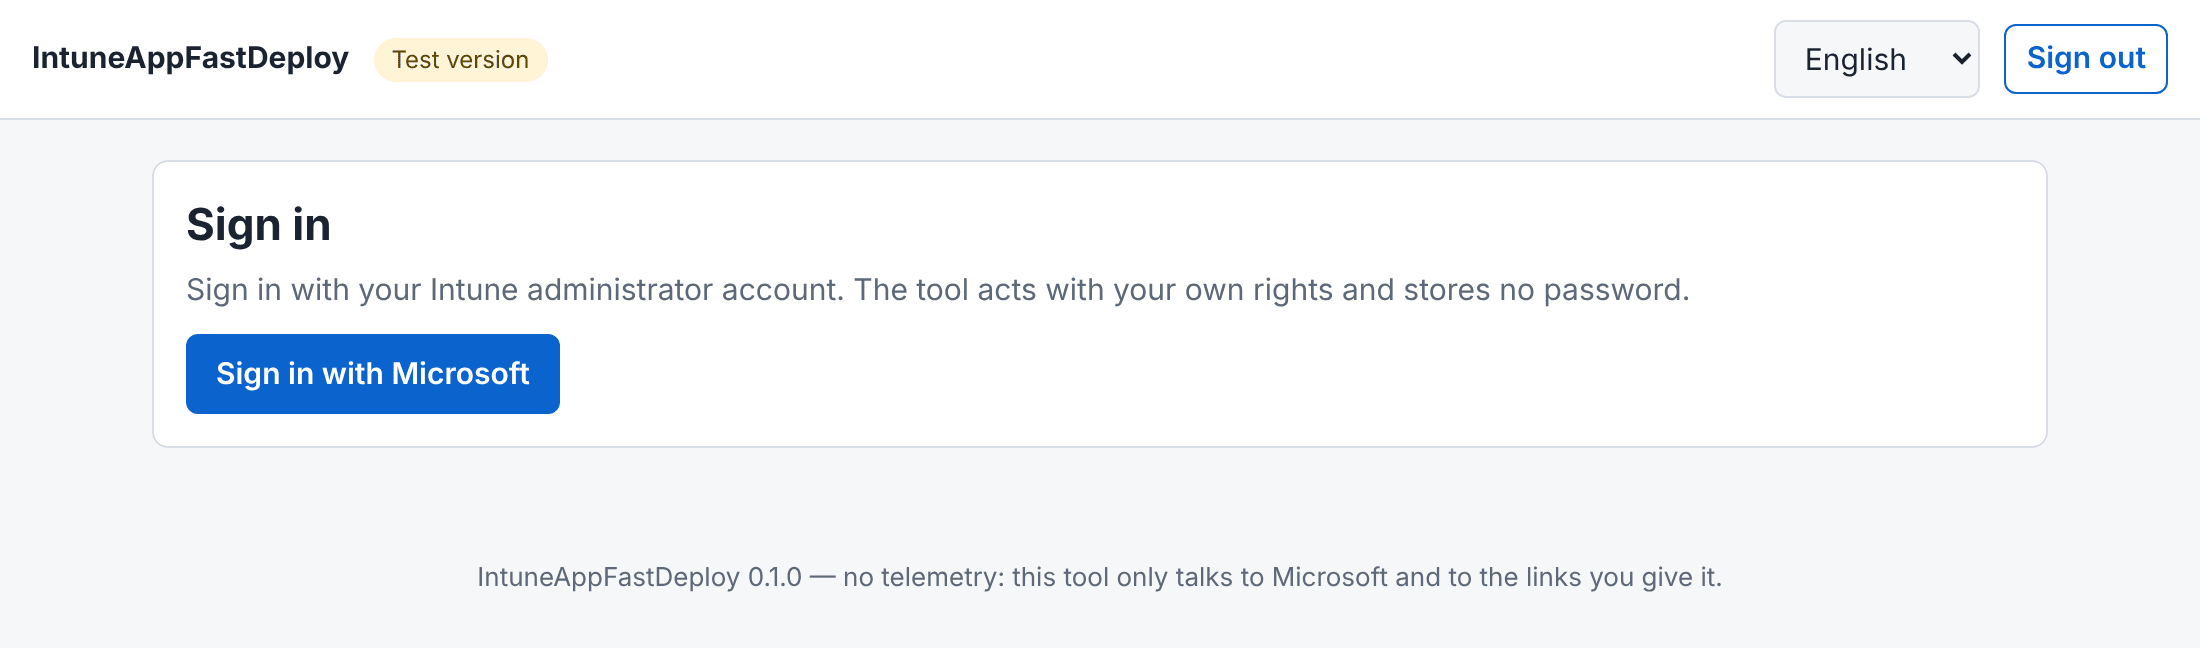
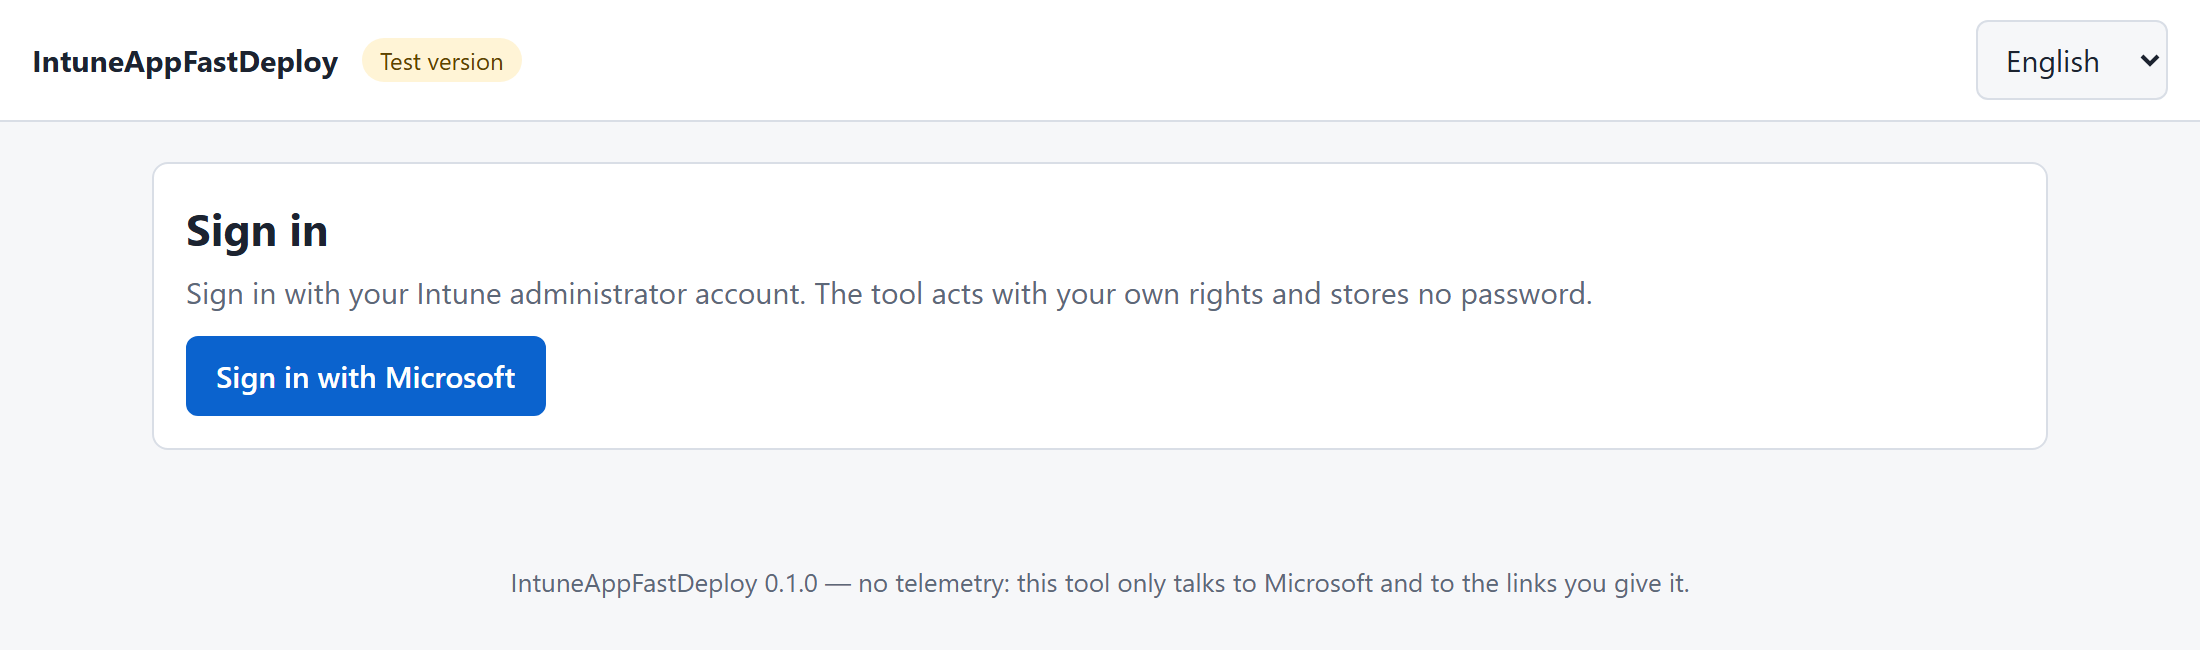
fix: hide the sign-out button until someone is signed in (#18)
The stylesheet sets "display" on every button, which overrides the
browser's own rule for the hidden attribute: the sign-out button, hidden
in the markup and by showLogin(), was still drawn on the sign-in screen.
A global "[hidden] { display: none !important; }" rule restores the
attribute for every element.

The sign-in screenshots of the README showed the stray button and are
regenerated (taken on Windows, so the font differs from the other ones).

diff --git a/src/iafd/static/style.css b/src/iafd/static/style.css
@@ -28,6 +28,8 @@
   }
 }
 * { box-sizing: border-box; }
+/* The rules below set "display" on buttons, labels and rows, which would override the hidden attribute. */
+[hidden] { display: none !important; }
 body {
   margin: 0;
   background: var(--bg);

diff --git a/tests/test_web.py b/tests/test_web.py
@@ -1,5 +1,6 @@
 """The HTTP layer, with sign-in bypassed and Intune replaced by the fake."""
 
+import re
 import time
 
 import httpx
@@ -126,3 +127,15 @@ def test_language_files_cannot_be_used_to_read_other_files(client):
     assert client.get("/locales/fr.json").json()["_name"] == "Français"
     for name in ("..%2F..%2Fconfig", "..%2Fstatic%2Fapp", "nope", "%2Fetc%2Fpasswd"):
         assert client.get(f"/locales/{name}.json").status_code == 404, name
+
+
+def test_sign_out_button_is_hidden_until_someone_signs_in(tmp_path):
+    settings = Settings(tenant_id="t", client_id="c", config_dir=tmp_path, work_dir=tmp_path / "w")
+    with TestClient(create_app(settings)) as anonymous:
+        page = anonymous.get("/").text
+        css = anonymous.get("/style.css").text
+    # The page ships the button hidden; the interface only reveals it once /api/me answers.
+    assert re.search(r'<button id="logout"[^>]*\shidden[\s>]', page)
+    # "button { display: ... }" beats the browser's own rule for the hidden attribute:
+    # without this rule the attribute has no effect and the button shows on the sign-in screen.
+    assert re.search(r"\[hidden\]\s*\{\s*display:\s*none\s*!important;?\s*\}", css)
